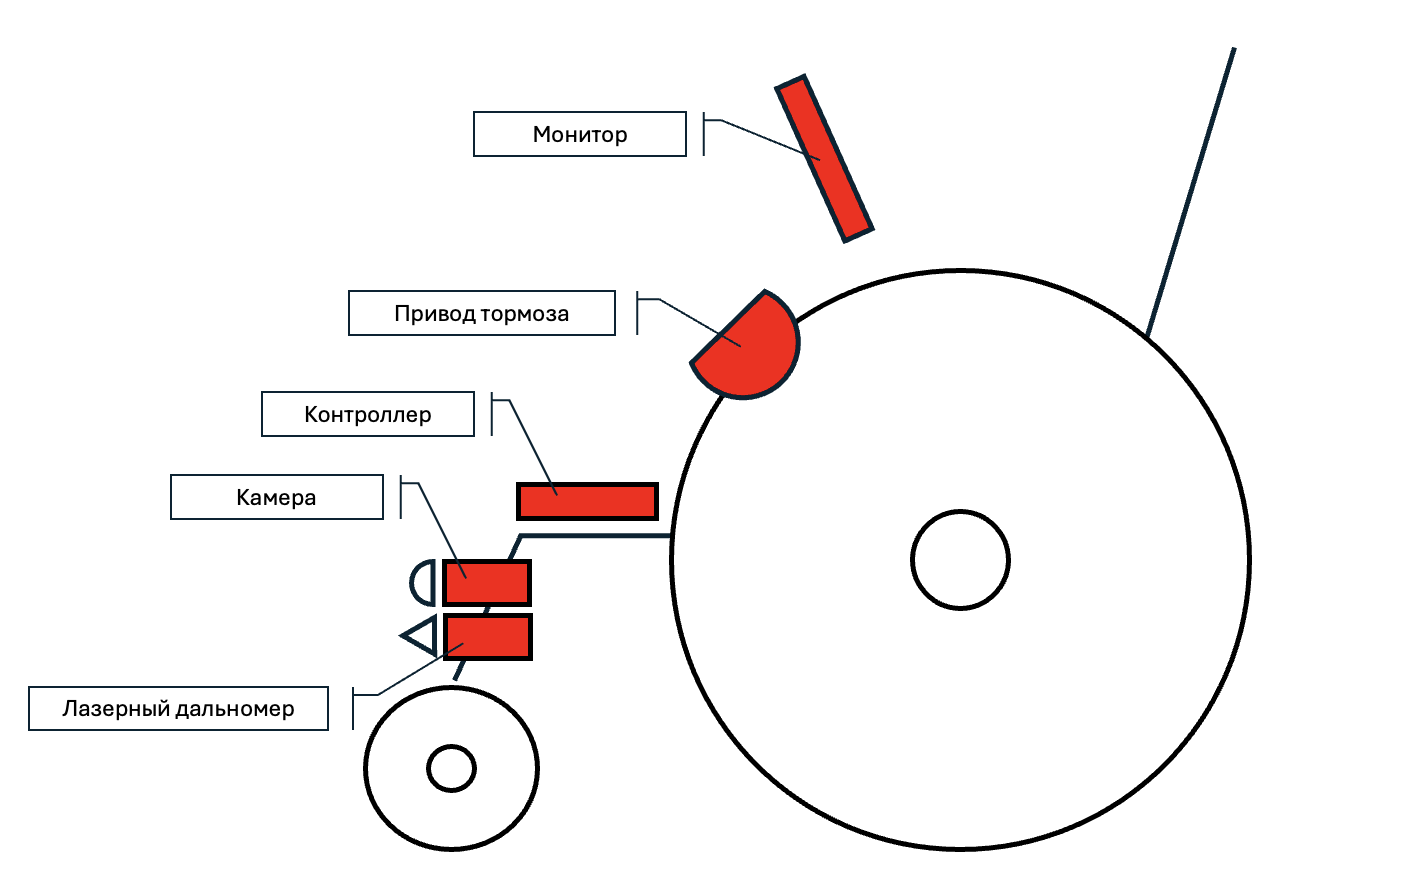
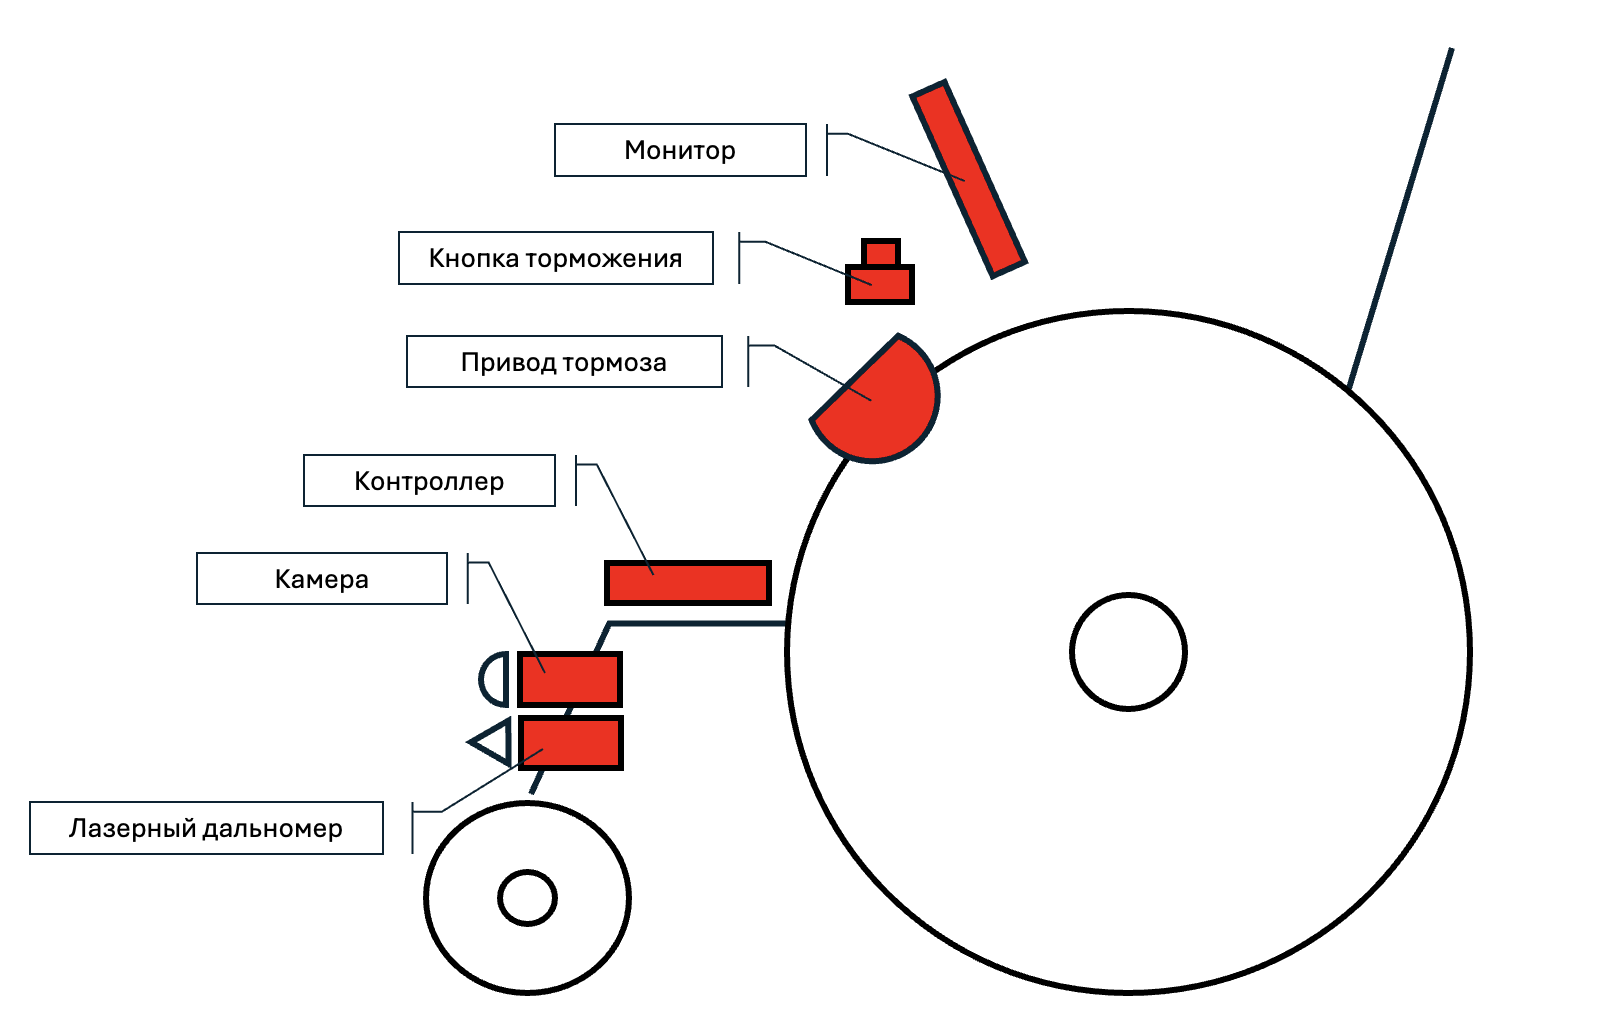
update

diff --git a/README.md b/README.md
@@ -11,3 +11,13 @@
 2. Препятствование продолжению движения в выбранном направлении в случае срабатывания критериев "непреодолимости" и "своевременности"
 ### Реализация
 ![](/doc/sxema-1.png)
+В качестве реализации предлагается создать программно-аппаратный комплекс, реагирующий на сближение с опасным препятствием путем запуска механизма торможения.\
+Данный комплекс должен будет монтироваться на все типовые конструкции инвалидных колясок.\
+Состав аппаратной части комплекса:
+- контроллер для размещения программной сроставляющей и для подключения аппаратных элементов комплекса
+- лазерный дальномер в количестве 2 шт, размещаемый на фронтальной части коляски напротив правого и левого колес, на высоте, обеспеччивающей обнаружение непреодолимого препятсявия и работающий с частотой позволяющей заблаговременно определить опасное сближение в зависимости от скорости движения коляски
+- камера в количестве 2 шт,размещаемая на фронтальной части коляски, напротив каждого из колес для визуального контроля обстановки пользователем
+- монитор для показа изображений с камер
+- привод тормоза в количестве 2 шт монтируемый на каждое из колес и формирующий необходимое сопротивление для вращения колес для обеспечения плавного торможения
+- кнопка принудительного торможения для ручного включения привода тормоза
+
